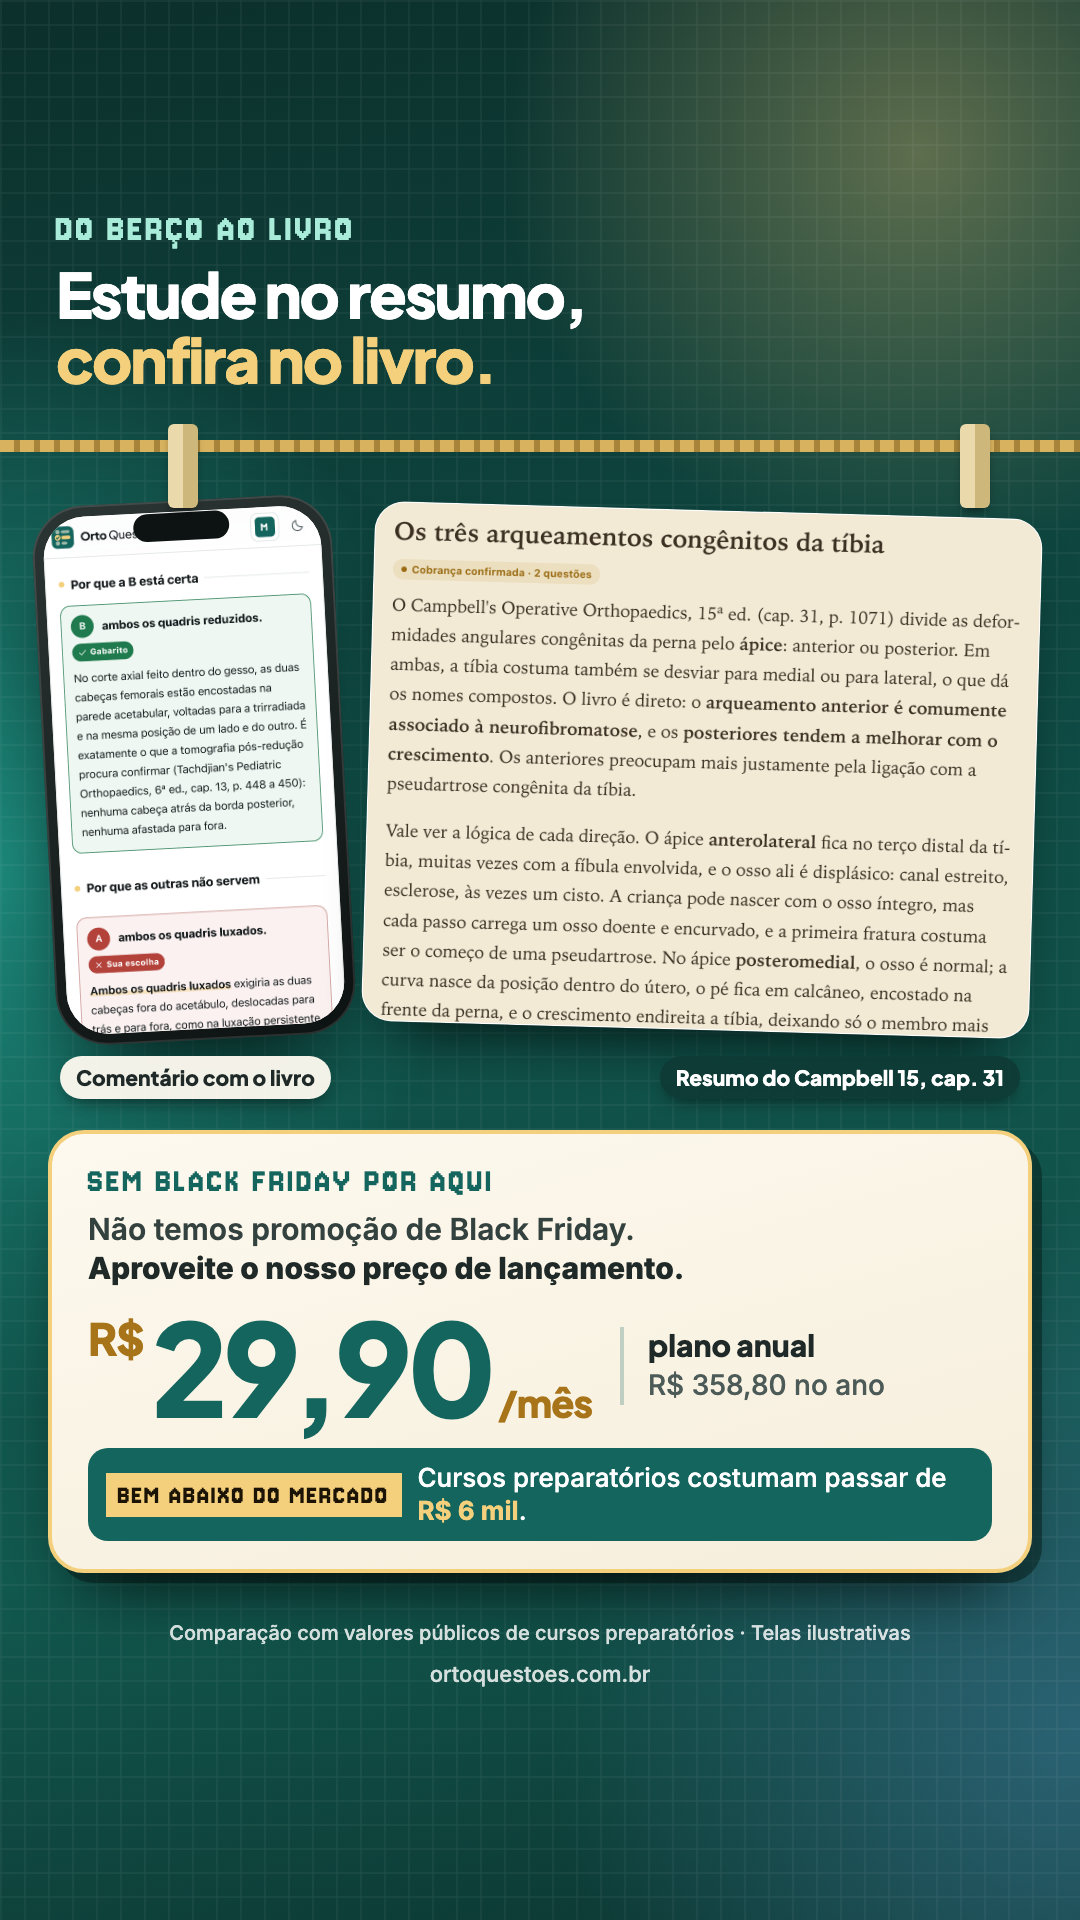
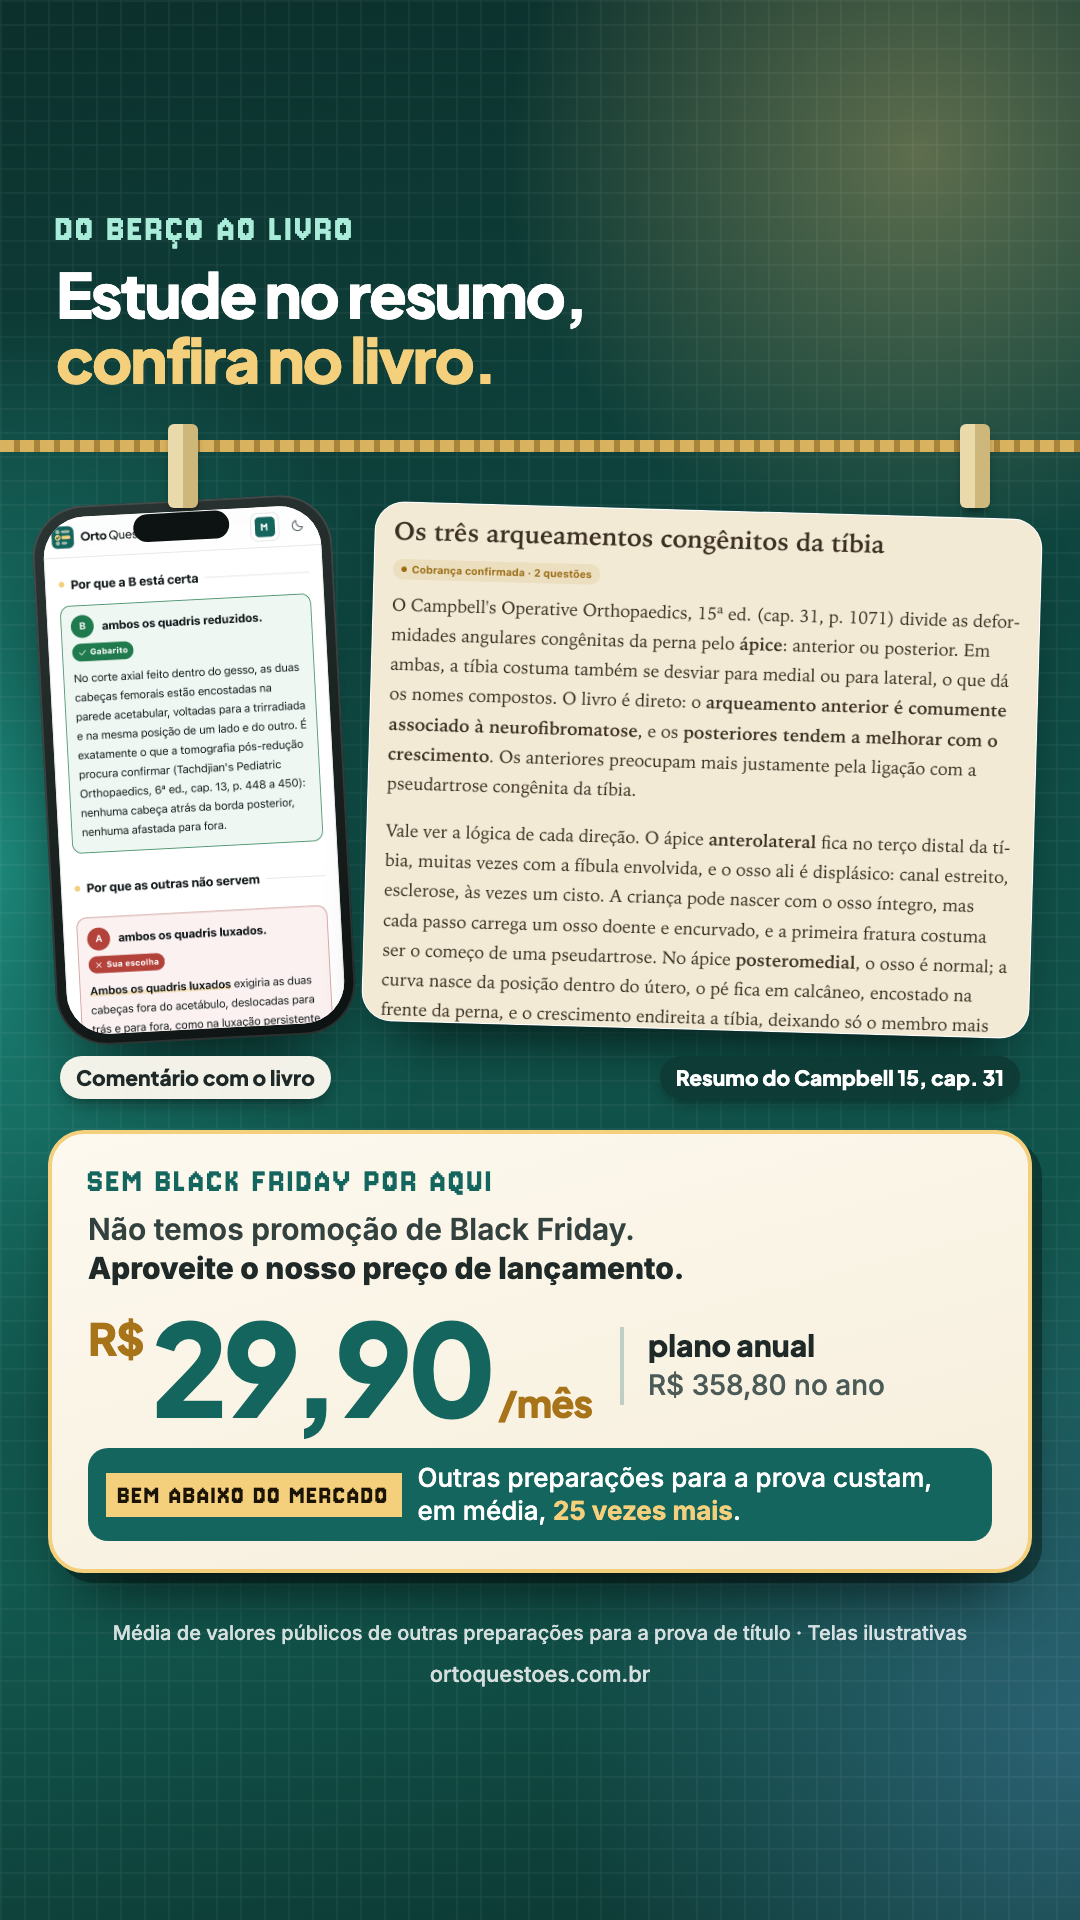
Comparação de preço sem valor e sem a palavra curso: outras preparações custam, em média, 25 vezes mais

Changed region(s): [[0.3667, 0.75, 0.8861, 0.8125], [0.1222, 0.8438, 0.7028, 0.875], [0.7333, 0.8438, 0.8861, 0.875]]

diff --git a/marketing/instagram/posts/2026-11-27-propaganda-preco/stories.html b/marketing/instagram/posts/2026-11-27-propaganda-preco/stories.html
@@ -1,8 +1,8 @@
 <!doctype html>
 <html lang="pt-BR"><head><meta charset="utf-8"><title>Sexta 27/11: a conta do preço (3 stories de propaganda)</title>
 <!-- Sexta 27/11/2026, só propaganda, preço normal (Tales, 24/11/2026, versão final): anual R$ 29,90 por mês (R$ 358,80 no
-     ano, src/dados/planos.ts). Não é promoção nem desconto. Comparação genérica, sem nome: "cursos preparatórios para a
-     prova de título passam de R$ 6 mil" (o Tales guarda os prints públicos com data como prova). Sem preço por dia,
+     ano, src/dados/planos.ts). Não é promoção nem desconto. Comparação genérica, sem nome, sem valor e sem a palavra curso
+     (Tales, 25/11): outras preparações custam, em média, 25 vezes mais (média de R$ 9 mil / R$ 358,80 = 25,1). Sem preço por dia,
      sem horário. Conteúdo importante entre y=250 e y=1580. Prints reais da conta de exemplo. -->
 <link rel="stylesheet" href="../../estilos/stories-com-alternativas/base.css">
 <link rel="stylesheet" href="../2026-11-24-semana/semana.css">
@@ -43,11 +43,11 @@
   <div class="selo" style="left:56px; top:260px;">A CONTA</div>
   <h1 style="position:absolute; left:56px; right:56px; top:350px; font:800 66px/1.05 Jakarta; letter-spacing:-2.2px; color:#fff;">Quanto custa se preparar<br><span class="ouro">para a prova de título?</span></h1>
   <div class="barras">
-    <div class="barra"><div class="v">mais de R$ 6 mil<small>curso preparatório</small></div><div class="b" style="height:520px;"></div><div class="n">OUTROS CURSOS</div></div>
-    <div class="barra nos"><div class="v">R$ 358,80<small>o ano inteiro</small></div><div class="b" style="height:32px;"></div><div class="n">ORTO QUESTÕES</div></div>
+    <div class="barra"><div class="v">25 vezes mais<small>em média</small></div><div class="b" style="height:520px;"></div><div class="n">OUTRAS PREPARAÇÕES</div></div>
+    <div class="barra nos"><div class="v">R$ 358,80<small>o ano inteiro</small></div><div class="b" style="height:21px;"></div><div class="n">ORTO QUESTÕES</div></div>
   </div>
   <p style="position:absolute; left:56px; right:56px; top:1390px; text-align:center; font:800 46px/1.15 Jakarta; letter-spacing:-1px; color:#fff;">R$ 29,90 por mês no anual.<br><span class="ouro">E não é promoção.</span></p>
-  <p class="rodape" style="top:1560px; font-size:22px;">Comparação com valores públicos de cursos preparatórios para a prova de título</p>
+  <p class="rodape" style="top:1560px; font-size:22px;">Média de valores públicos de outras preparações para a prova de título</p>
 </section>
 
 <!-- ============ STORY 2: o que cabe ============ -->

diff --git a/marketing/instagram/posts/2026-11-25-bercario-nf1/stories.html b/marketing/instagram/posts/2026-11-25-bercario-nf1/stories.html
@@ -126,9 +126,9 @@
       <div class="valor"><span class="r">R$</span>29,90<span class="m">/mês</span></div>
       <div class="det"><b>plano anual</b><br>R$ 358,80 no ano</div>
     </div>
-    <div class="compara"><span class="sel">BEM ABAIXO DO MERCADO</span><span>Cursos preparatórios costumam passar de <b>R$ 6 mil</b>.</span></div>
+    <div class="compara"><span class="sel">BEM ABAIXO DO MERCADO</span><span>Outras preparações para a prova custam, em média, <b>25 vezes mais</b>.</span></div>
   </div>
-  <p class="rodape" style="top:1620px; font-size:20px;">Comparação com valores públicos de cursos preparatórios · Telas ilustrativas</p>
+  <p class="rodape" style="top:1620px; font-size:20px;">Média de valores públicos de outras preparações para a prova de título · Telas ilustrativas</p>
   <p class="rodape" style="top:1660px; font-size:22px;">ortoquestoes.com.br</p>
 </section>
 </body></html>

diff --git a/marketing/instagram/posts/2026-11-27-propaganda-preco/LEGENDA.md b/marketing/instagram/posts/2026-11-27-propaganda-preco/LEGENDA.md
@@ -6,12 +6,12 @@ node marketing/instagram/gerar.mjs marketing/instagram/posts/2026-11-27-propagan
 
 Pedido do Tales (24/11/2026, versão final): preço normal, sem promoção. Anual R$ 29,90 por mês (R$ 358,80 no ano).
 Tom apelativo, mas dentro do CDC e do CONAR: não chamar de promoção nem de desconto (o preço é o de sempre), comparação
-genérica sem nome ("cursos preparatórios passam de R$ 6 mil", verdadeira e comprovável: o Tales guarda prints públicos
-com data), total do ano junto da parcela, nunca preço por dia.
+genérica sem nome, sem valor e sem a palavra curso: "outras preparações custam, em média, 25 vezes mais" (média de R$ 9 mil
+do Tales / R$ 358,80; guardar prints públicos com data), total do ano junto da parcela, nunca preço por dia.
 
 | Ordem | Arquivo | O que é |
 |---|---|---|
-| 1 | `sex27-1-conta.png` | Quanto custa se preparar para a prova de título? Barras: outros cursos mais de R$ 6 mil x Orto Questões R$ 358,80 no ano; "R$ 29,90 por mês no anual. E não é promoção." |
+| 1 | `sex27-1-conta.png` | Quanto custa se preparar para a prova de título? Barras: outras preparações, em média 25 vezes mais, x Orto Questões R$ 358,80 no ano; "R$ 29,90 por mês no anual. E não é promoção." |
 | 2 | `sex27-2-cabe.png` | O que cabe nos R$ 29,90: resumo, comentário no iPhone, Cronograma, Atlas 3D, Caderno de erros e Simulados |
 | 3 | `sex27-3-fecho.png` | Preço de lançamento: é o nosso preço normal; R$ 29,90/mês, R$ 358,80 no ano; comece grátis; "o caminho está no nosso perfil" |
 

diff --git a/marketing/instagram/estilos/STORIES-COM-ALTERNATIVAS.md b/marketing/instagram/estilos/STORIES-COM-ALTERNATIVAS.md
@@ -121,11 +121,12 @@ enquete, resposta com o livro e um **story extra de propaganda com prints reais 
 ## Preço e propaganda (Tales, 24/11/2026, versão final)
 
 Não há promoção de Black Friday. No dia 27/11/2026 só propaganda com o preço normal (anual R$ 29,90 por mês, R$ 358,80
-no ano), em tom apelativo e dentro da lei: nunca chamar de promoção ou desconto o preço de sempre; comparação genérica e
-comprovável, sem nome ("cursos preparatórios para a prova de título passam de R$ 6 mil"); total junto da parcela; nunca
+no ano), em tom apelativo e dentro da lei: nunca chamar de promoção ou desconto o preço de sempre; comparação genérica, sem
+nome, sem valor e sem a palavra curso (Tales, 25/11): "outras preparações custam, em média, 25 vezes mais" (média de
+R$ 9 mil / R$ 358,80); total junto da parcela; nunca
 preço por dia. Peças em `posts/2026-11-27-propaganda-preco/`. Sem superlativo absoluto ("o mais barato do mercado"):
-usar "bem abaixo do mercado" e "preço de lançamento", com a nota "Comparação com valores públicos de cursos
-preparatórios"; nada que sugira que outros cursos enganam (nada de "desconto inventado").
+usar "bem abaixo do mercado" e "preço de lançamento", com a nota "Média de valores públicos de outras
+preparações para a prova de título"; nada que sugira que outros cursos enganam (nada de "desconto inventado").
 
 ## Conferência antes de entregar
 
